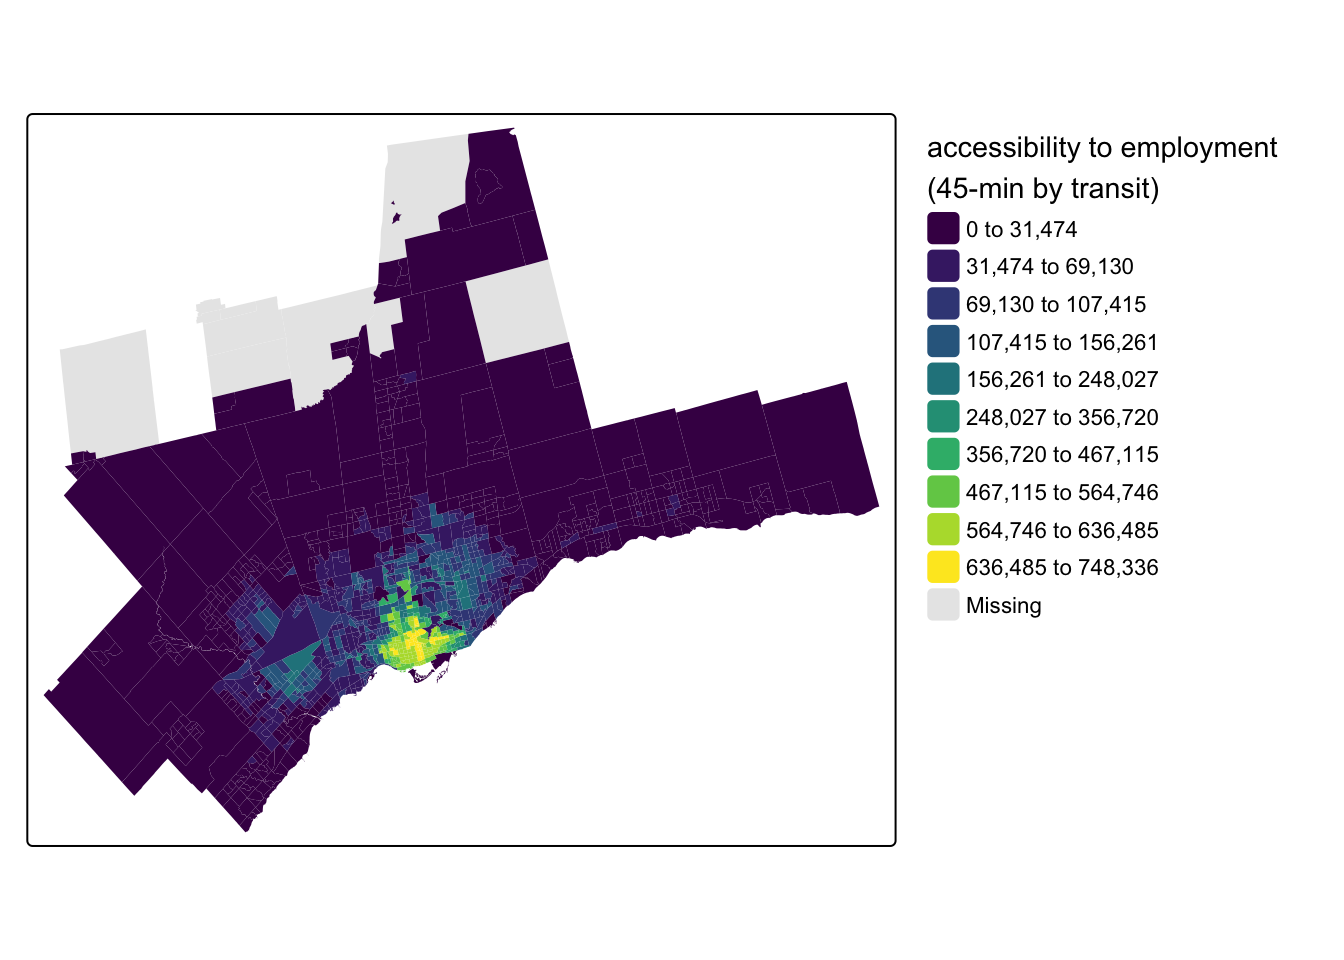
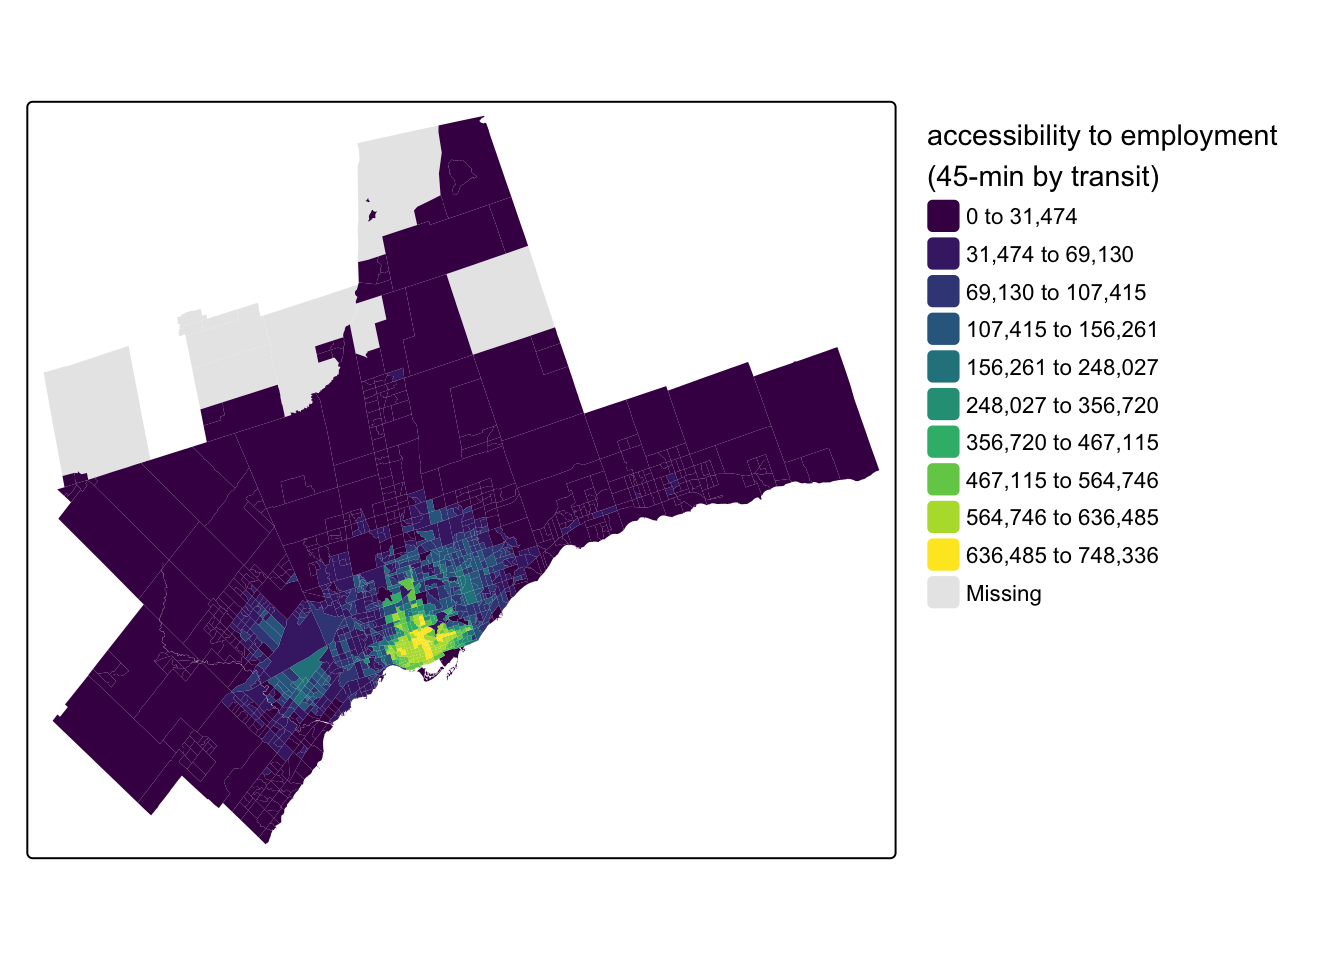
website updates
fix typo in accessibility

Changed region(s): [[0.0312, 0.0938, 0.6562, 0.9062], [0.6875, 0.125, 0.9688, 0.6562], [0.3438, 0.4375, 0.375, 0.4688]]

diff --git a/docs/posts/accessibility_analysis/index.html b/docs/posts/accessibility_analysis/index.html
@@ -298,7 +298,7 @@ window.Quarto = {
 <p>Between the workshop, my teaching of courses like GGRC30 Advanced GIS and JPG1400 Advanced Quantitative Methods where students are increasingly conducting accessibility analyses and often needing some guidance, and the joking by Steven Farber that I should be local tech support for {r5r}, I’ve put together a collection of the first steps I undertake in nearly every analysis of accessibility in the City of Toronto and larger region. Together, these serve as a nice little introductory vignette to the topic in the local context.</p>
 <section id="what-is-accessibility" class="level1">
 <h1>What is Accessibility?</h1>
-<p>To jump right into the topic, transportation accessibility reflects the ease with which individuals can reach destinations using the transportation network. There are many different types of accessibility measures (see <span class="citation" data-cites="geurs2004">Geurs and Wee (<a href="#ref-geurs2004" role="doc-biblioref">2004</a>)</span>’s review of the infrastructure-, place-, person- and utility-based approaches or <span class="citation" data-cites="wu2020">Wu and Levinson (<a href="#ref-wu2020" role="doc-biblioref">2020</a>)</span>’s <em>Unifying Access</em> paper). This post focuses on place-based accessibility - the potential to reach destinations from an origin place using the transportation network. To keep this post manageable, I am assuming some general knowledge of place-based accessibility and how {r5r} works. If you need a refresher, see the <a href="https://ipeagit.github.io/intro_access_book/">Introduction to Urban Accessibility</a> book by Rafa and his Ipea team. Of my own work, see Higgins et al. <span class="citation" data-cites="higgins2022">(<a href="#ref-higgins2022" role="doc-biblioref">2022</a>)</span> and Higgins <span class="citation" data-cites="higgins2019">(<a href="#ref-higgins2019" role="doc-biblioref">2019</a>)</span>.</p>
+<p>To jump right in, transportation accessibility reflects the ease with which individuals can reach destinations using the transportation network. There are many different types of accessibility measures (see <span class="citation" data-cites="geurs2004">Geurs and Wee (<a href="#ref-geurs2004" role="doc-biblioref">2004</a>)</span>’s review of the infrastructure-, place-, person- and utility-based approaches or <span class="citation" data-cites="wu2020">Wu and Levinson (<a href="#ref-wu2020" role="doc-biblioref">2020</a>)</span>’s <em>Unifying Access</em> paper). This post focuses on place-based accessibility - the potential to reach destinations from an origin place using the transportation network. To keep this post manageable, I am assuming some general knowledge of place-based accessibility and how {r5r} works. If you need a refresher, see the <a href="https://ipeagit.github.io/intro_access_book/">Introduction to Urban Accessibility</a> book by Rafa and his Ipea team. Of my own work, see Higgins et al. <span class="citation" data-cites="higgins2022">(<a href="#ref-higgins2022" role="doc-biblioref">2022</a>)</span> and Higgins <span class="citation" data-cites="higgins2019">(<a href="#ref-higgins2019" role="doc-biblioref">2019</a>)</span>.</p>
 <p>But briefly, a place-based accessibility measure takes the general form:</p>
 <p><span class="math display">\[
 A_i = \sum_{j=1}^J O_j \times f(t_{ij})
@@ -365,7 +365,7 @@ A_i = \sum_{j=1}^J O_j \times f(t_{ij})
 <button class="code-annotation-anchor" data-target-cell="annotated-cell-6" data-target-annotation="4">4</button><span id="annotated-cell-6-5" class="code-annotation-target"><a href="#annotated-cell-6-5" aria-hidden="true" tabindex="-1"></a>    <span class="at">geo_format =</span> <span class="st">"sf"</span>,</span>
 <span id="annotated-cell-6-6"><a href="#annotated-cell-6-6" aria-hidden="true" tabindex="-1"></a>    <span class="at">use_cache =</span> <span class="cn">TRUE</span>) <span class="sc">|&gt;</span> </span>
 <button class="code-annotation-anchor" data-target-cell="annotated-cell-6" data-target-annotation="5">5</button><span id="annotated-cell-6-7" class="code-annotation-target"><a href="#annotated-cell-6-7" aria-hidden="true" tabindex="-1"></a>  janitor<span class="sc">::</span><span class="fu">clean_names</span>() <span class="sc">|&gt;</span></span>
-<button class="code-annotation-anchor" data-target-cell="annotated-cell-6" data-target-annotation="6">6</button><span id="annotated-cell-6-8" class="code-annotation-target"><a href="#annotated-cell-6-8" aria-hidden="true" tabindex="-1"></a>  <span class="fu">st_transform</span>(<span class="at">crs =</span> <span class="dv">26918</span>) <span class="sc">|&gt;</span></span>
+<button class="code-annotation-anchor" data-target-cell="annotated-cell-6" data-target-annotation="6">6</button><span id="annotated-cell-6-8" class="code-annotation-target"><a href="#annotated-cell-6-8" aria-hidden="true" tabindex="-1"></a>  <span class="fu">st_transform</span>(<span class="at">crs =</span> <span class="dv">26917</span>) <span class="sc">|&gt;</span></span>
 <button class="code-annotation-anchor" data-target-cell="annotated-cell-6" data-target-annotation="7">7</button><span id="annotated-cell-6-9" class="code-annotation-target"><a href="#annotated-cell-6-9" aria-hidden="true" tabindex="-1"></a>  <span class="fu">mutate</span>(<span class="at">population_density =</span> population <span class="sc">/</span> shape_area)</span><div class="code-annotation-gutter-bg"></div><div class="code-annotation-gutter"></div></code><button title="Copy to Clipboard" class="code-copy-button"><i class="bi"></i></button></pre></div>
 <div class="cell-annotation">
 <dl class="code-annotation-container-hidden code-annotation-container-grid">
@@ -473,7 +473,7 @@ Figure&nbsp;1: Population Densities (2016) for CTs in the Greater Toronto Area
 <span id="cb7-6"><a href="#cb7-6" aria-hidden="true" tabindex="-1"></a>    <span class="at">workers_density =</span> workers <span class="sc">/</span> area,</span>
 <span id="cb7-7"><a href="#cb7-7" aria-hidden="true" tabindex="-1"></a>    <span class="at">jobs_density =</span> jobs <span class="sc">/</span> area)</span></code><button title="Copy to Clipboard" class="code-copy-button"><i class="bi"></i></button></pre></div>
 </div>
-<p>This survey covers the larger Greater Golden Horseshoe area with zones roughly similar in size to CTs and the {TTS2016R} package focuses on worker and job counts. Here’s a map of the density of the working population:</p>
+<p>The {TTS2016R} package focuses on worker and job counts. Here’s a map of the density of the working population:</p>
 <div class="cell">
 <details class="code-fold">
 <summary>Code</summary>

diff --git a/docs/index.html b/docs/index.html
@@ -257,7 +257,7 @@ window.Quarto = {
 
 <div class="quarto-listing quarto-listing-container-default" id="listing-listing">
 <div class="list quarto-listing-default">
-<div class="quarto-post image-right" data-index="0" data-categories="Y29kZSUyQ2FuYWx5c2lz" data-listing-date-sort="1747800000000" data-listing-file-modified-sort="1748031471442" data-listing-date-modified-sort="NaN" data-listing-reading-time-sort="25" data-listing-word-count-sort="4808">
+<div class="quarto-post image-right" data-index="0" data-categories="Y29kZSUyQ2FuYWx5c2lz" data-listing-date-sort="1747800000000" data-listing-file-modified-sort="1748117871424" data-listing-date-modified-sort="NaN" data-listing-reading-time-sort="24" data-listing-word-count-sort="4788">
 <div class="thumbnail">
 <p><a href="./posts/accessibility_analysis/index.html" class="no-external"></a></p><a href="./posts/accessibility_analysis/index.html" class="no-external">
 <p><img loading="lazy" src="./posts/accessibility_analysis/banner.jpg" class="thumbnail-image"></p>
